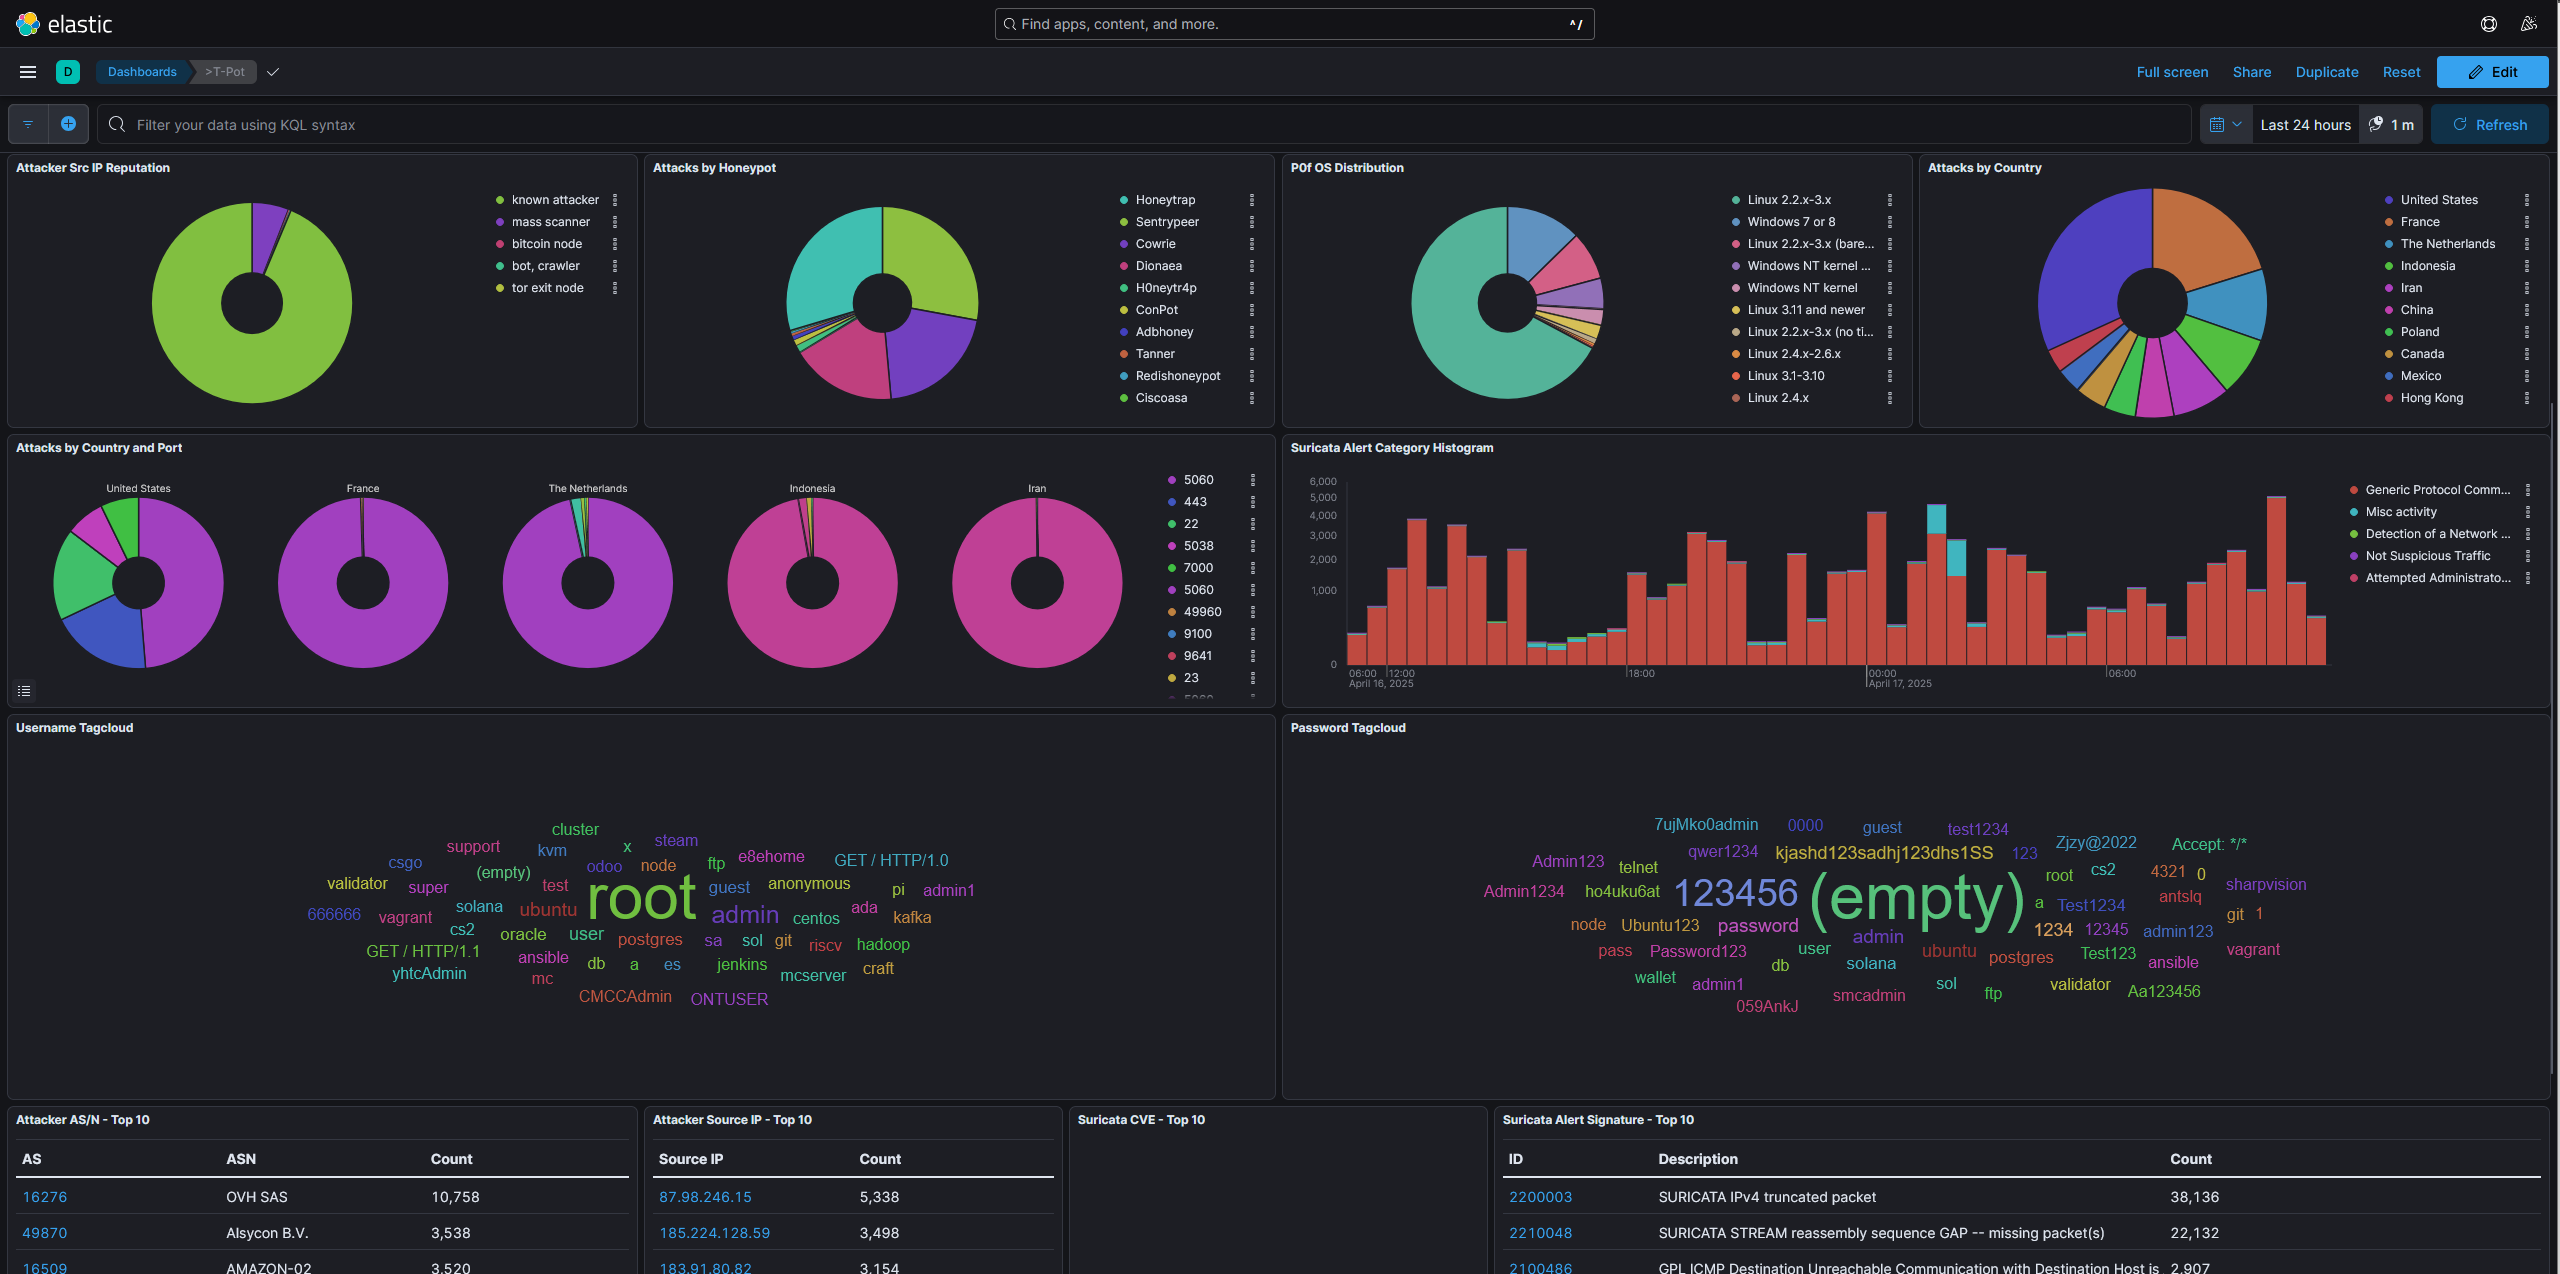
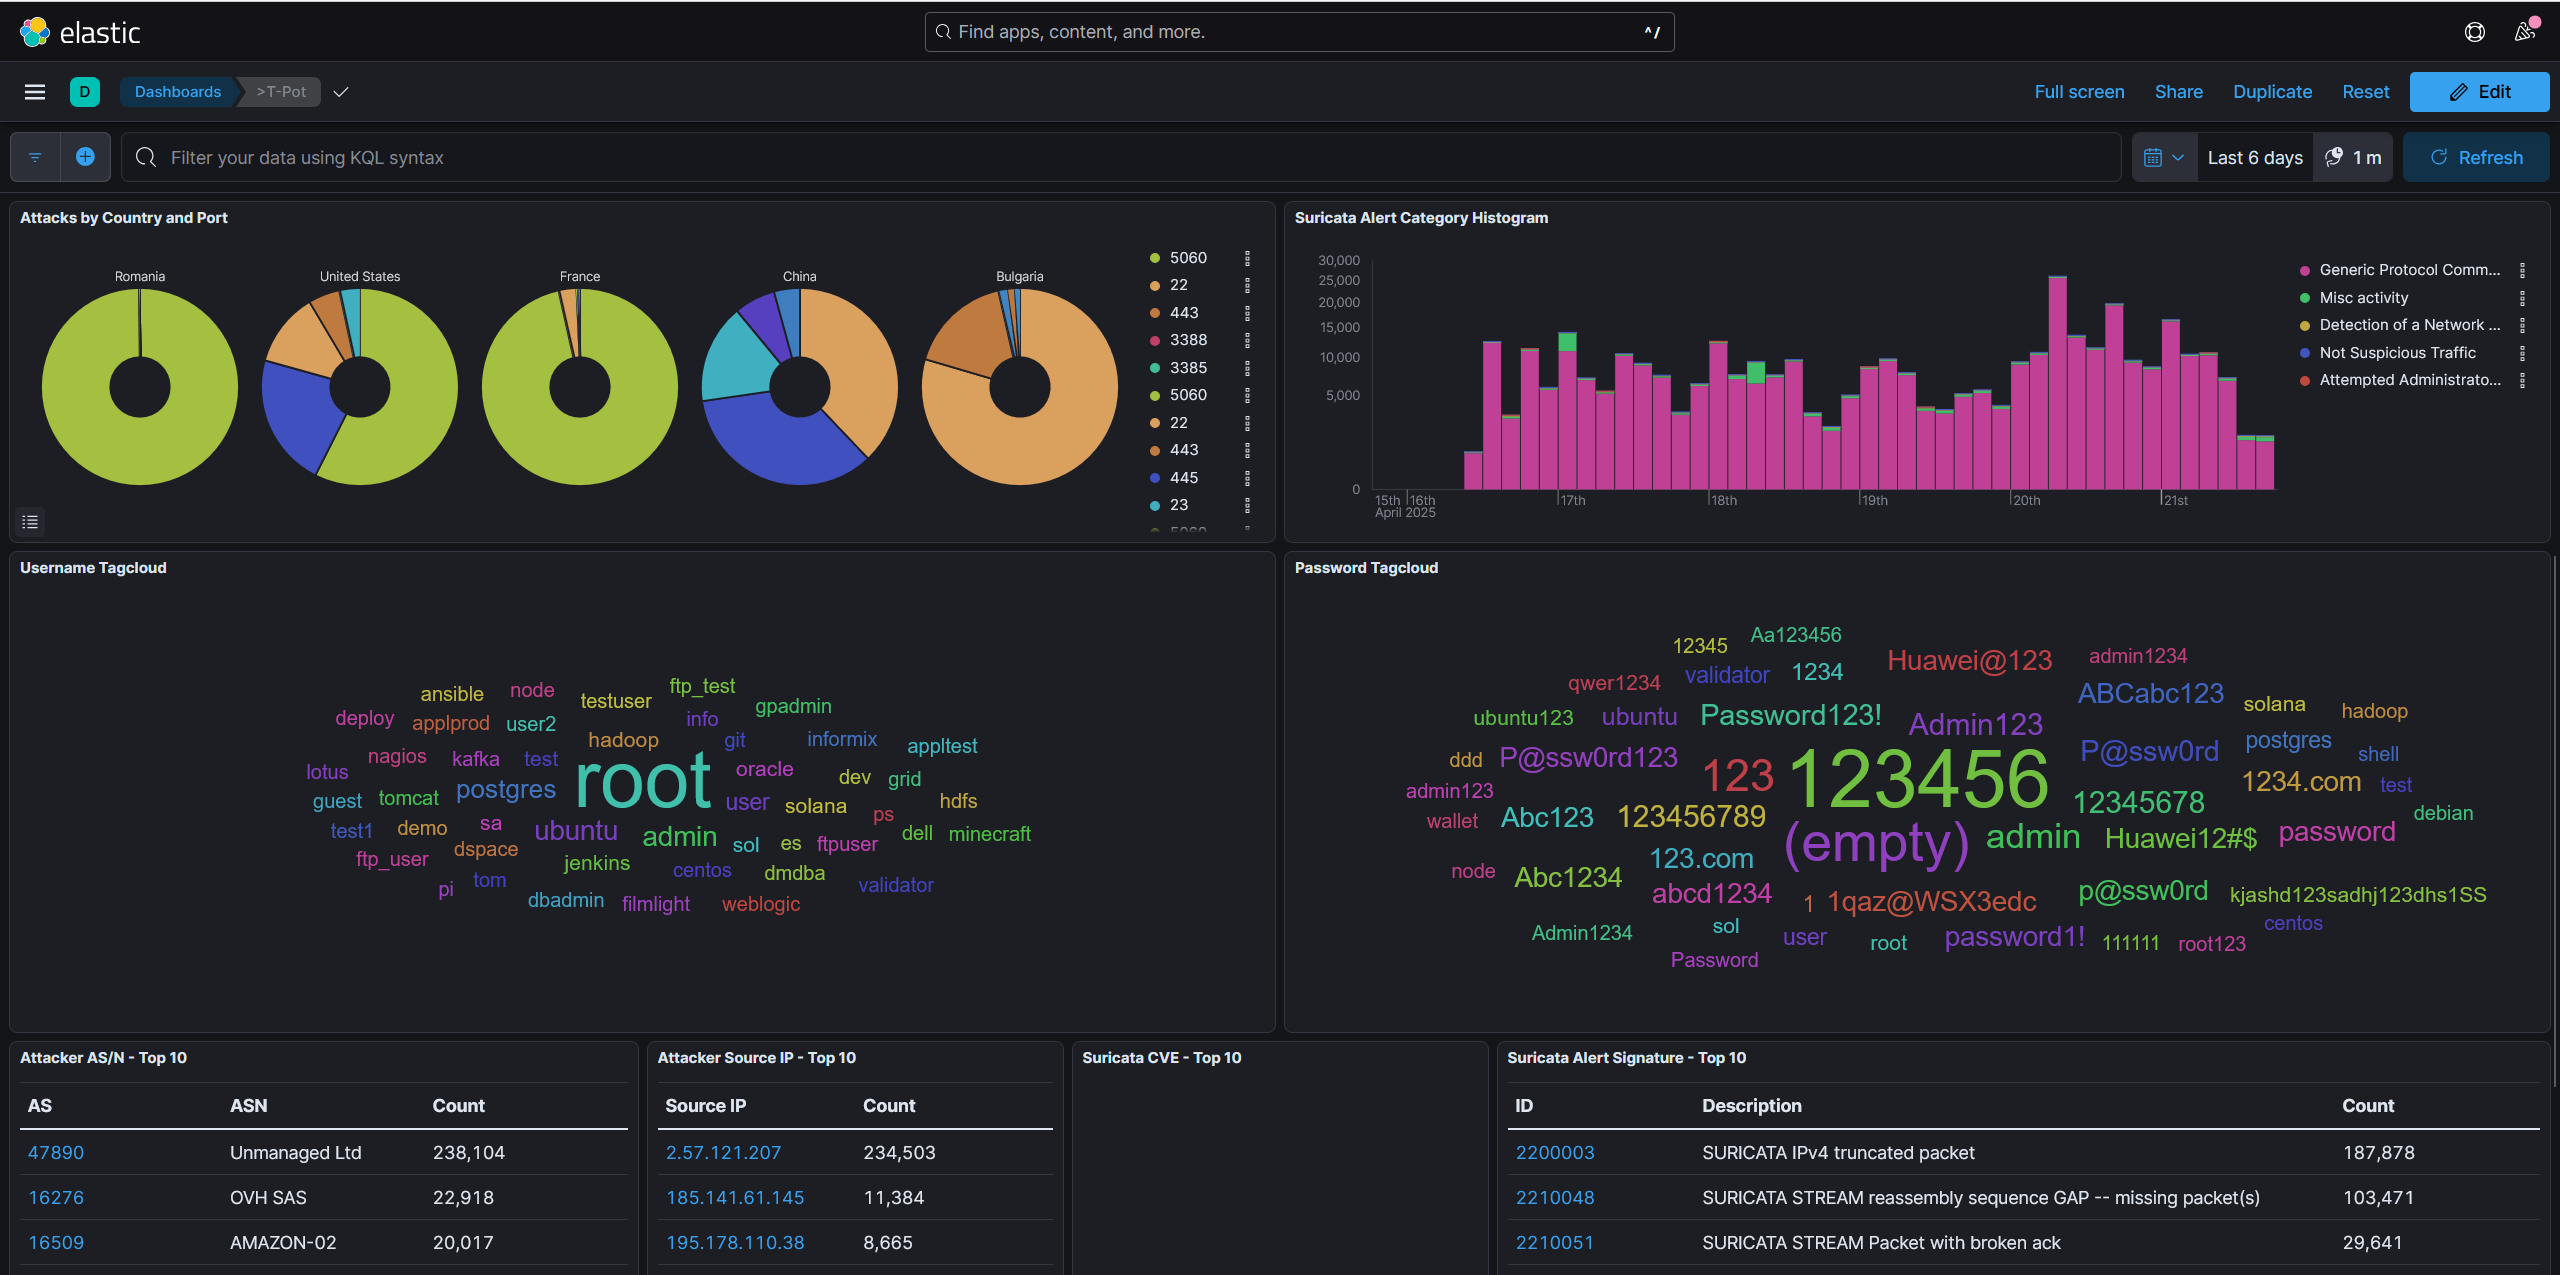
update

diff --git a/README.md b/README.md
@@ -107,21 +107,26 @@ reboot
 
 Using the Kibana dashboard and raw log discovery:
 
-- Over **45,000 attacks** detected in 24 hours
-- Top services targeted:
-  - Cowrie (SSH) – brute force attempts
-  - Dionaea – attempts to push malware payloads
-- Common attacker usernames: `root`, `admin`, `ubuntu`, `oracle`
-- Passwords attempted: `123456`, `admin123`, `password`, `1234`
-- Majority of attacker IPs originated from: 
-  - 🇮🇷 Iran
+- **Total Honeypot Hits**: Over **446,000** attack attempts
+- **Top Services Targeted**:
+  - `Sentrypeer` – 257k
+  - `Honeytrap` – 95k
+  - `Cowrie` (SSH) – 54k
+  - `Dionaea` (malware) – 32k
+- **Common Usernames**: `root`, `admin`, `ubuntu`, `oracle`, `postgres`
+- **Most Frequent Passwords**: `123456`, `Password123!`, `admin123`, `P@ssw0rd`, `Huawei@123`, `qwer1234`, `(empty)`
+- **Suricata Alerts**:
+  - IPv4 truncated packets (188k)
+  - Stream reassembly gaps (103k)
+  - Broken TCP ACKs and invalid packets
+- **Top Attacking Countries**:
+  - 🇷🇴 Romania
   - 🇺🇸 United States
   - 🇫🇷 France
-  - 🇳🇱 The Netherlands
-- Suricata Alerts:
-  - IPv4 truncated packets
-  - ICMP communication issues
-  - Suspicious stream reassembly sequences
+  - 🇨🇳 China
+  - 🇧🇬 Bulgaria
+- **Attacker Types**: Known scanners, anonymizers, botnets, Tor exit nodes
+- **Most Common Ports Scanned**: 5060, 445, 443, 22, 23
 
 📸 Kibana Dashboard
 ![Elastic Dashboard](images/Kibana_dashboard.png)
@@ -136,23 +141,23 @@ Using the Kibana dashboard and raw log discovery:
 
 ## ✈ Takeaways
 
-This deployment simulated what happens when infrastructure is exposed on the public internet. Key insights:
+This deployment confirmed that exposing unprotected infrastructure on the internet results in immediate and sustained targeting from global threat actors. Key lessons:
 
-- 🕐 Attacks began within minutes of deployment — **internet-facing services are always watched**
-- 🧠 Brute force attempts and opportunistic malware delivery dominate early-stage threats
-- ✈ Lessons here directly tie to airport/critical infrastructure security:
-  - Isolated systems must never be internet-exposed without layered defenses
-  - Log collection, analysis, and alerting are critical
-  - Honeypots can safely simulate and test defenses
+- 🕒 **Immediate Targeting**: Attack attempts began within minutes of exposure, emphasizing the importance of default hardening before public deployment.
+- 🔐 **Credential Abuse is Rampant**: The volume of SSH brute-force attempts and reused default passwords (like `123456`, `root`, and `admin`) indicates widespread scanning automation.
+- 🌐 **Diverse Threat Actors**: Attacks originated from a wide range of IPs across multiple continents, with notable ASNs like OVH, Amazon, and cloud VPN exit nodes.
+- 🧪 **Honeypots Are Effective Simulators**: T-Pot provided valuable, low-risk visibility into attacker tactics, tools, and patterns—critical for blue teams and SOC analysts.
+- ✈ **Relevance to Critical Infrastructure**: For sectors like aviation, energy, and healthcare, exposing even a misconfigured service can act as a beacon for attackers. This reinforces the need for layered defense, traffic monitoring, and least privilege configurations.
 
 ---
 
-## 📘 What's Next
+## 📘 What’s Next
 
-- Automate log archival and alerting (e.g., Slack notifications)
-- Add threat enrichment using public IP blacklists
-- Explore integration with a SIEM like Splunk or Microsoft Sentinel
-- Visualize trends weekly to observe attacker shifts
+- 📦 **Automate Log Archival**: Set up cron jobs or Logstash pipelines to back up logs daily to an S3 bucket or cloud storage.
+- 🚨 **Enable Real-Time Alerting**: Integrate Slack, Microsoft Teams, or email alerts using Suricata or Filebeat.
+- 🧠 **Enrich Threat Data**: Correlate IPs against public blocklists (AbuseIPDB, AlienVault OTX, etc.) to improve context.
+- 📊 **Trend Reporting**: Build weekly dashboards to analyze shifts in attacker behavior and attack surface targeting.
+- 🔗 **SIEM Integration**: Export logs to Splunk, Sentinel, or Wazuh to enhance threat hunting capabilities.
 
 ---
 
